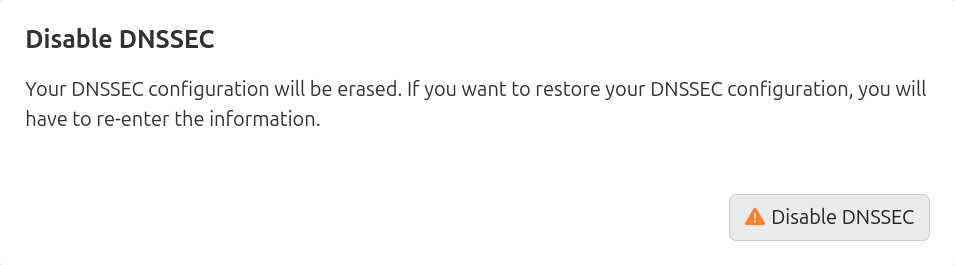
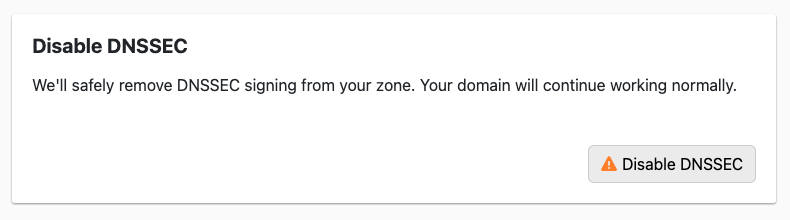
Change: Update DNSSEC article to refine guidance on disabling and remove outdated warnings

diff --git a/content/articles/disabling-dnssec.md b/content/articles/disabling-dnssec.md
@@ -1,17 +1,12 @@
 ---
 title: Disabling DNSSEC
-excerpt: Learn how to disable DNSSEC for your domain, including critical warnings about removing DS records to prevent DNSSEC validation failures.
+excerpt: Learn how to disable DNSSEC for your domain, including critical warnings about removing DS records to prevent DNS resolution issues.
 categories:
 - DNSSEC
 - Enterprise
 ---
 
 # Disabling DNSSEC
-
-<warning>
-If your domain is registered with another registrar, you must remove the DS record from that registrar before you disable zone signing in DNSimple. If the DS record is not removed within 48 hours, your domain will experience DNSSEC validation failures and cease to resolve for DNSSEC-aware resolvers, making your domain unreachable.
-</warning>
-
 
 1. Select the correct account in the **account switcher** at the top right.
   ![screenshot of switching accounts](/files/switch-account.png)
@@ -23,8 +18,7 @@ If your domain is registered with another registrar, you must remove the DS reco
   ![screenshot of disabling dnssec](/files/dnssec-disable.png)
 1. Enter the domain to verify, and click **Disable DNSSEC** again to remove the zone signing (and the DS record if it is present in DNSimple).
   ![screenshot of confirming disabling of dnssec](/files/dnssec-disable-confirm.png)
-1. When you click **Disable DNSSEC** for a domain that is registered with another domain registrar, you will see a reminder message to remove the DS record within 48 hours to prevent DNSSEC validation failures.
-  ![screenshot of confirming disabling of external domain dnssec](/files/dnssec-disable-external.png)
+
 
 <info>
   To learn how to disable DNSSEC with the API, check out our [developer documentation](https://developer.dnsimple.com/v2/domains/dnssec/#disableDomainDnssec). 
